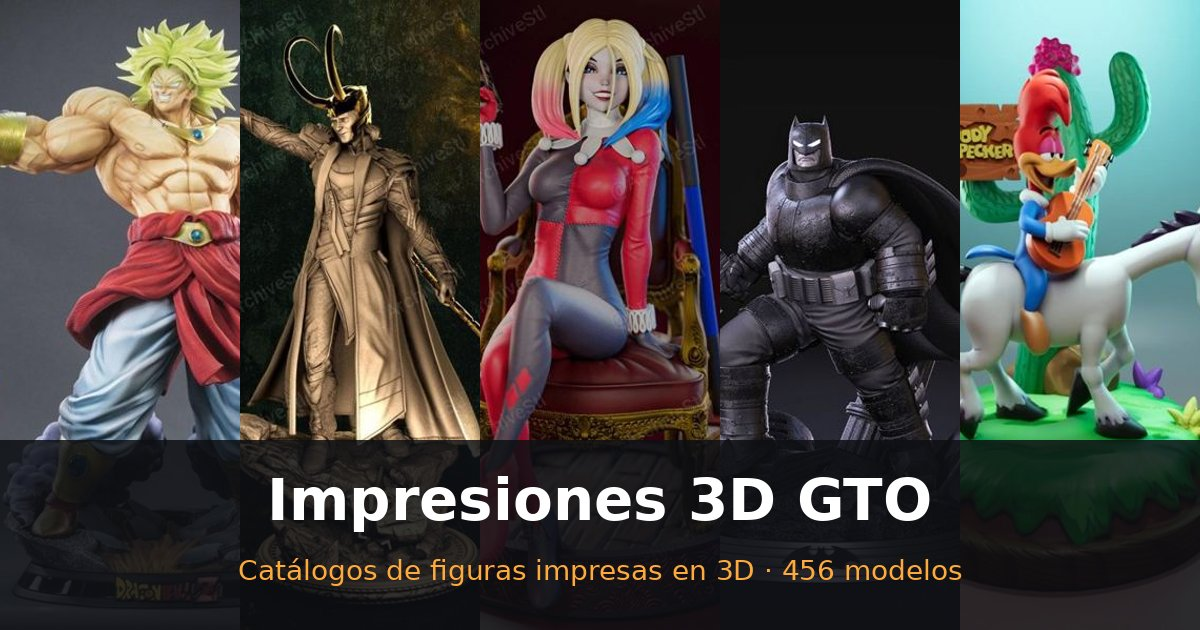
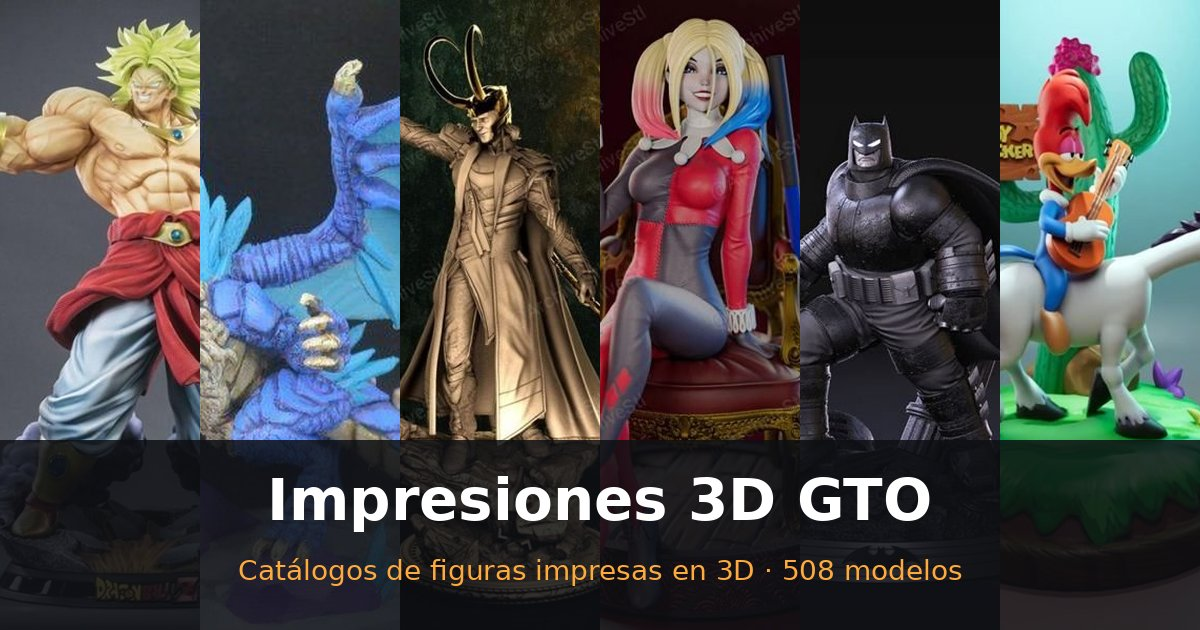
Agregar catálogo de Dragones (52 modelos, DRG-001 a DRG-052)
- Nuevo catálogo en sitio/dragones/
- Tarjeta en la página de inicio (cuadrícula de 3 columnas)
- Botón Dragones en los otros 5 catálogos
- Vista previa og.jpg con 6 catálogos y 508 modelos
- Códigos DRG en codigos.tsv

Claude-Session: https://claude.ai/code/session_01XGCEiJfgnkEhnVqTLsYhtQ

diff --git a/sitio/dragones/index.html b/sitio/dragones/index.html
@@ -1,0 +1,97 @@
+<!DOCTYPE html>
+<html lang="es">
+<head>
+<meta charset="utf-8">
+<meta name="viewport" content="width=device-width, initial-scale=1">
+<title>Catálogo Dragones · Impresiones 3D GTO</title>
+<meta property="og:title" content="Dragones · Impresiones 3D GTO">
+<meta property="og:description" content="Dragones impresos en 3D: figuras, chibis, articulados y decoración. Pide la tuya por WhatsApp.">
+<meta property="og:image" content="https://impresiones3dgto.figuras.workers.dev/img/dragones.jpg">
+<meta property="og:url" content="https://impresiones3dgto.figuras.workers.dev/dragones/">
+<link rel="preconnect" href="https://fonts.googleapis.com">
+<link href="https://fonts.googleapis.com/css2?family=Bebas+Neue&family=Inter:wght@400;500;600&display=swap" rel="stylesheet">
+<style>
+:root{--bg:#0d0f13;--panel:#161a21;--line:#262c36;--text:#e9ecf1;--muted:#8d96a5;--accent:#22c55e}
+*{box-sizing:border-box}
+body{margin:0;background:var(--bg);color:var(--text);font-family:Inter,system-ui,sans-serif}
+header{padding:40px 20px 24px;text-align:center;background:radial-gradient(ellipse at top,#1f2530 0%,var(--bg) 70%);border-bottom:1px solid var(--line)}
+.brand{font-size:13px;letter-spacing:.2em;text-transform:uppercase;color:var(--muted)}
+h1{font-family:'Bebas Neue',sans-serif;font-size:clamp(42px,8vw,76px);margin:6px 0 4px;letter-spacing:.04em;font-weight:400}
+h1 span{color:var(--accent)}
+.sub{color:var(--muted);font-size:15px;margin:0 auto;max-width:620px;line-height:1.5}
+.contact{display:inline-block;margin-top:16px;padding:9px 16px;border:1px solid var(--accent);color:var(--accent);border-radius:999px;font-weight:600;font-size:14px;text-decoration:none}
+.bar{position:sticky;top:0;z-index:5;background:rgba(13,15,19,.94);backdrop-filter:blur(8px);border-bottom:1px solid var(--line);padding:12px 16px}
+.bar-in{max-width:1200px;margin:0 auto;display:flex;flex-wrap:wrap;gap:8px;align-items:center}
+.chip{background:var(--panel);border:1px solid var(--line);color:var(--text);padding:7px 12px;border-radius:999px;font-size:13px;cursor:pointer;font-family:inherit}
+.chip.on{background:var(--accent);color:#111;border-color:var(--accent);font-weight:600}
+input{flex:1 1 180px;min-width:160px;background:var(--panel);border:1px solid var(--line);color:var(--text);padding:8px 12px;border-radius:8px;font-family:inherit;font-size:14px}
+main{max-width:1200px;margin:0 auto;padding:20px 16px 60px}
+h2{font-family:'Bebas Neue',sans-serif;font-weight:400;font-size:32px;letter-spacing:.04em;margin:32px 0 14px;border-left:4px solid var(--accent);padding-left:12px}
+h2 small{font-family:Inter;font-size:13px;color:var(--muted);letter-spacing:0;margin-left:8px}
+.grid{display:grid;grid-template-columns:repeat(auto-fill,minmax(200px,1fr));gap:14px}
+.card{background:var(--panel);border:1px solid var(--line);border-radius:10px;overflow:hidden;cursor:zoom-in;transition:transform .15s,border-color .15s}
+.card:hover{transform:translateY(-2px);border-color:#3a4250}
+.ph{aspect-ratio:1/1;background:#0a0b0e;display:flex;align-items:center;justify-content:center}
+.ph img{width:100%;height:100%;object-fit:contain}
+.meta{padding:10px 12px 12px}
+.code{font-size:11px;color:var(--accent);font-weight:600;letter-spacing:.06em}
+.name{font-size:14px;font-weight:500;margin-top:3px;line-height:1.3}
+.empty{color:var(--muted);text-align:center;padding:40px}
+footer{text-align:center;color:var(--muted);font-size:13px;padding:30px 16px 50px;border-top:1px solid var(--line);line-height:1.6}
+.lb{position:fixed;inset:0;background:rgba(0,0,0,.9);display:none;align-items:center;justify-content:center;flex-direction:column;z-index:20;padding:20px;cursor:zoom-out}
+.lb.on{display:flex}
+.lb img{max-width:100%;max-height:80vh;border-radius:8px}
+.lb p{margin:14px 0 0;font-size:16px}
+@media (max-width:600px){
+.grid{grid-template-columns:repeat(2,1fr);gap:10px}
+.bar-in{flex-wrap:nowrap;overflow-x:auto;scrollbar-width:none}
+.bar-in::-webkit-scrollbar{display:none}
+.chip{flex:0 0 auto}
+input{flex:0 0 170px}
+h2{font-size:26px}
+.name{font-size:13px}
+header{padding:28px 16px 20px}
+}
+.contact.alt{background:var(--accent);color:#111;margin-left:8px}
+@media (max-width:600px){.contact.alt{margin:10px 0 0;display:inline-block}}
+</style>
+</head>
+<body>
+<header>
+  <div class="brand">Impresiones 3D GTO</div>
+  <h1>Dragones <span>3D</span></h1>
+  <p class="sub">Dragones de fantasía, de películas y anime, chibis, articulados, lámparas y piezas de decoración que podemos imprimir en 3D. Toca una imagen para verla grande y pídenos el modelo por su código.</p>
+  <a class="contact alt" href="../">← Todos los catálogos</a> <a class="contact" href="https://wa.me/524731399799">WhatsApp 473 139 9799</a> <a class="contact alt" href="../dragonball/">Dragon Ball →</a> <a class="contact alt" href="../vintage/">Caricaturas Vintage →</a> <a class="contact alt" href="../marvel/">Catálogo Marvel →</a> <a class="contact alt" href="../dc/">Catálogo DC →</a> <a class="contact alt" href="../batman/">Catálogo Batman →</a>
+</header>
+<div class="bar"><div class="bar-in" id="chips"><input id="q" type="search" placeholder="Buscar (ej. Chimuelo, lámpara, hielo)..."></div></div>
+<main id="list"></main>
+<footer>52 modelos · Las imágenes son de referencia del diseño digital; el acabado final depende del material, tamaño y pintura que elijas.<br>Cotiza tu figura por WhatsApp: 473 139 9799</footer>
+<div class="lb" id="lb"><img id="lbi" alt=""><p id="lbt"></p></div>
+<script>
+const DATA=[{"n": "Dragón abisal", "c": "Dragones de fantasía", "code": "DRG-001", "img": "img/DRG-001.jpg"}, {"n": "Dragón abominación", "c": "Dragones de fantasía", "code": "DRG-002", "img": "img/DRG-002.jpg"}, {"n": "Dragón acuático", "c": "Dragones de fantasía", "code": "DRG-003", "img": "img/DRG-003.jpg"}, {"n": "Dragón astral", "c": "Dragones de fantasía", "code": "DRG-004", "img": "img/DRG-004.jpg"}, {"n": "Dragón azul alado", "c": "Dragones de fantasía", "code": "DRG-005", "img": "img/DRG-005.jpg"}, {"n": "Dragón cromático azul", "c": "Dragones de fantasía", "code": "DRG-006", "img": "img/DRG-006.jpg"}, {"n": "Dragón cromático blanco", "c": "Dragones de fantasía", "code": "DRG-007", "img": "img/DRG-007.jpg"}, {"n": "Dragón cromático negro", "c": "Dragones de fantasía", "code": "DRG-008", "img": "img/DRG-008.jpg"}, {"n": "Dragón cromático rojo", "c": "Dragones de fantasía", "code": "DRG-009", "img": "img/DRG-009.jpg"}, {"n": "Dragón cromático verde", "c": "Dragones de fantasía", "code": "DRG-010", "img": "img/DRG-010.jpg"}, {"n": "Dragón de acero", "c": "Dragones de fantasía", "code": "DRG-011", "img": "img/DRG-011.jpg"}, {"n": "Dragón de guerra", "c": "Dragones de fantasía", "code": "DRG-012", "img": "img/DRG-012.jpg"}, {"n": "Dragón de hielo Padre de la Escarcha", "c": "Dragones de fantasía", "code": "DRG-013", "img": "img/DRG-013.jpg"}, {"n": "Dragón de hielo gigante", "c": "Dragones de fantasía", "code": "DRG-014", "img": "img/DRG-014.jpg"}, {"n": "Dragón de la muerte", "c": "Dragones de fantasía", "code": "DRG-015", "img": "img/DRG-015.jpg"}, {"n": "Dragón dios", "c": "Dragones de fantasía", "code": "DRG-016", "img": "img/DRG-016.jpg"}, {"n": "Dragón mecánico", "c": "Dragones de fantasía", "code": "DRG-017", "img": "img/DRG-017.jpg"}, {"n": "Dragón nocturno", "c": "Dragones de fantasía", "code": "DRG-018", "img": "img/DRG-018.jpg"}, {"n": "Dragón primigenio", "c": "Dragones de fantasía", "code": "DRG-019", "img": "img/DRG-019.jpg"}, {"n": "Dragón sobrenatural", "c": "Dragones de fantasía", "code": "DRG-020", "img": "img/DRG-020.jpg"}, {"n": "Dragón tortuga", "c": "Dragones de fantasía", "code": "DRG-021", "img": "img/DRG-021.jpg"}, {"n": "Dragón ártico", "c": "Dragones de fantasía", "code": "DRG-022", "img": "img/DRG-022.jpg"}, {"n": "La chica y el dragón", "c": "Dragones de fantasía", "code": "DRG-023", "img": "img/DRG-023.jpg"}, {"n": "Pilar de dragón", "c": "Dragones de fantasía", "code": "DRG-024", "img": "img/DRG-024.jpg"}, {"n": "Batman Ninja vs dragón del Joker", "c": "Películas, series y anime", "code": "DRG-025", "img": "img/DRG-025.jpg"}, {"n": "Busto Reina de los Dragones", "c": "Películas, series y anime", "code": "DRG-026", "img": "img/DRG-026.jpg"}, {"n": "Calavera de dragón Krayt", "c": "Películas, series y anime", "code": "DRG-027", "img": "img/DRG-027.jpg"}, {"n": "Chimuelo", "c": "Películas, series y anime", "code": "DRG-028", "img": "img/DRG-028.jpg"}, {"n": "Dragón Blanco de Ojos Azules", "c": "Películas, series y anime", "code": "DRG-029", "img": "img/DRG-029.jpg"}, {"n": "Dragón Blanco de Ojos Azules chibi", "c": "Películas, series y anime", "code": "DRG-030", "img": "img/DRG-030.jpg"}, {"n": "Sisu y Raya, el último dragón", "c": "Películas, series y anime", "code": "DRG-031", "img": "img/DRG-031.jpg"}, {"n": "Chica dragón chibi", "c": "Chibi y tiernos", "code": "DRG-032", "img": "img/DRG-032.jpg"}, {"n": "Dragón Leung chibi", "c": "Chibi y tiernos", "code": "DRG-033", "img": "img/DRG-033.jpg"}, {"n": "Dragón de jengibre chibi", "c": "Chibi y tiernos", "code": "DRG-034", "img": "img/DRG-034.jpg"}, {"n": "Dragón no muerto chibi", "c": "Chibi y tiernos", "code": "DRG-035", "img": "img/DRG-035.jpg"}, {"n": "Dragón articulado épico", "c": "Articulados y llaveros", "code": "DRG-036", "img": "img/DRG-036.jpg"}, {"n": "Llavero dragón ajolote", "c": "Articulados y llaveros", "code": "DRG-037", "img": "img/DRG-037.jpg"}, {"n": "Llavero dragón tejido flexible", "c": "Articulados y llaveros", "code": "DRG-038", "img": "img/DRG-038.jpg"}, {"n": "Ajedrez de dragones", "c": "Decoración y hogar", "code": "DRG-039", "img": "img/DRG-039.jpg"}, {"n": "Aldaba de dragón para puerta", "c": "Decoración y hogar", "code": "DRG-040", "img": "img/DRG-040.jpg"}, {"n": "Anillo de dragón", "c": "Decoración y hogar", "code": "DRG-041", "img": "img/DRG-041.jpg"}, {"n": "Dragón guardián porta celular", "c": "Decoración y hogar", "code": "DRG-042", "img": "img/DRG-042.jpg"}, {"n": "Dragón origami", "c": "Decoración y hogar", "code": "DRG-043", "img": "img/DRG-043.jpg"}, {"n": "Lámpara de dragón", "c": "Decoración y hogar", "code": "DRG-044", "img": "img/DRG-044.jpg"}, {"n": "Lámpara de dragón de fuego", "c": "Decoración y hogar", "code": "DRG-045", "img": "img/DRG-045.jpg"}, {"n": "Lámpara litofanía con pilares de dragón", "c": "Decoración y hogar", "code": "DRG-046", "img": "img/DRG-046.jpg"}, {"n": "Porta botella dragón chino", "c": "Decoración y hogar", "code": "DRG-047", "img": "img/DRG-047.jpg"}, {"n": "Porta tarjetas de dragón", "c": "Decoración y hogar", "code": "DRG-048", "img": "img/DRG-048.jpg"}, {"n": "Sujetalibros caballero vs dragón", "c": "Decoración y hogar", "code": "DRG-049", "img": "img/DRG-049.jpg"}, {"n": "Cazadores de dragones (pack)", "c": "Packs para rol y miniaturas", "code": "DRG-050", "img": "img/DRG-050.jpg"}, {"n": "Pacto del Dragón (pack de miniaturas)", "c": "Packs para rol y miniaturas", "code": "DRG-051", "img": "img/DRG-051.jpg"}, {"n": "Tesoro del dragón verde (pack)", "c": "Packs para rol y miniaturas", "code": "DRG-052", "img": "img/DRG-052.jpg"}], CATS=["Dragones de fantasía", "Películas, series y anime", "Chibi y tiernos", "Articulados y llaveros", "Decoración y hogar", "Packs para rol y miniaturas"];
+let cat='Todos', q='';
+const chips=document.getElementById('chips'), qi=document.getElementById('q');
+['Todos',...CATS].forEach(c=>{const b=document.createElement('button');b.className='chip'+(c==='Todos'?' on':'');b.textContent=c;b.onclick=()=>{cat=c;[...chips.querySelectorAll('.chip')].forEach(x=>x.classList.toggle('on',x===b));render()};chips.insertBefore(b,qi)});
+qi.oninput=e=>{q=e.target.value.toLowerCase().normalize('NFD').replace(/[̀-ͯ]/g,'');render()};
+function norm(s){return s.toLowerCase().normalize('NFD').replace(/[̀-ͯ]/g,'')}
+function render(){
+  const L=document.getElementById('list');L.innerHTML='';let any=false;
+  CATS.forEach(c=>{
+    if(cat!=='Todos'&&cat!==c)return;
+    const its=DATA.filter(d=>d.c===c&&(!q||norm(d.n+' '+d.code+' '+d.c).includes(q)));
+    if(!its.length)return;any=true;
+    const h=document.createElement('h2');h.innerHTML=c+'<small>'+its.length+'</small>';L.appendChild(h);
+    const g=document.createElement('div');g.className='grid';
+    its.forEach(d=>{const el=document.createElement('div');el.className='card';
+      el.innerHTML='<div class="ph"><img loading="lazy" alt=""></div><div class="meta"><div class="code"></div><div class="name"></div></div>';
+      el.querySelector('img').src=d.img;el.querySelector('img').alt=d.n;el.querySelector('.code').textContent=d.code;el.querySelector('.name').textContent=d.n;
+      el.onclick=()=>{document.getElementById('lbi').src=d.img;document.getElementById('lbt').textContent=d.code+' · '+d.n;document.getElementById('lb').classList.add('on')};
+      g.appendChild(el)});
+    L.appendChild(g)});
+  if(!any)L.innerHTML='<p class="empty">No encontramos ese modelo. Escríbenos y lo buscamos.</p>';
+}
+document.getElementById('lb').onclick=()=>document.getElementById('lb').classList.remove('on');
+render();
+</script>
+</body>
+</html>

diff --git a/sitio/index.html b/sitio/index.html
@@ -4,11 +4,11 @@
 <meta charset="utf-8">
 <meta name="viewport" content="width=device-width, initial-scale=1">
 <title>Impresiones 3D GTO · Catálogos de figuras</title>
-<meta name="description" content="Figuras impresas en 3D de Dragon Ball, Marvel, DC, Batman y caricaturas clásicas. Elige tu modelo y cotiza por WhatsApp.">
+<meta name="description" content="Figuras impresas en 3D de Dragon Ball, dragones, Marvel, DC, Batman y caricaturas clásicas. Elige tu modelo y cotiza por WhatsApp.">
 <meta property="og:type" content="website">
 <meta property="og:url" content="https://impresiones3dgto.figuras.workers.dev/">
 <meta property="og:title" content="Impresiones 3D GTO · Catálogos de figuras">
-<meta property="og:description" content="Más de 450 figuras impresas en 3D: Dragon Ball, Marvel, DC, Batman y caricaturas clásicas. Cotiza por WhatsApp.">
+<meta property="og:description" content="Más de 500 figuras impresas en 3D: Dragon Ball, dragones, Marvel, DC, Batman y caricaturas clásicas. Cotiza por WhatsApp.">
 <meta property="og:image" content="https://impresiones3dgto.figuras.workers.dev/og.jpg">
 <meta property="og:image:width" content="1200">
 <meta property="og:image:height" content="630">
@@ -30,7 +30,8 @@ h1 span{color:var(--accent)}
 @media(max-width:640px){header{background-image:url(header-m.jpg);min-height:560px}}
 main{max-width:1100px;margin:0 auto;padding:28px 16px 40px}
 h2{font-family:'Bebas Neue',sans-serif;font-weight:400;font-size:30px;letter-spacing:.04em;margin:8px 0 16px;text-align:center;color:var(--muted)}
-.grid{display:grid;grid-template-columns:repeat(auto-fit,minmax(160px,1fr));gap:12px}
+.grid{display:grid;grid-template-columns:repeat(3,1fr);gap:14px;max-width:960px;margin:0 auto}
+@media(max-width:640px){.grid{grid-template-columns:repeat(2,1fr);gap:10px}}
 .cat{--c:#fff;position:relative;display:block;aspect-ratio:3/4;border-radius:14px;overflow:hidden;text-decoration:none;color:#fff;border:1px solid var(--line);background:#0a0b0e;transition:transform .2s,border-color .2s}
 .cat img{width:100%;height:100%;object-fit:cover;transition:transform .4s}
 .cat:hover{transform:translateY(-3px);border-color:var(--c)}
@@ -64,6 +65,7 @@ footer a{color:var(--accent)}
   <h2>Elige un catálogo</h2>
   <div class="grid">
     <a class="cat" style="--c:#ff7a00" href="dragonball/"><span class="go">Ver →</span><img src="img/dragonball.jpg" alt="Dragon Ball"><div class="info"><b>Dragon Ball</b><small>118 modelos · Goku, Vegeta, Freezer, Broly</small></div></a>
+    <a class="cat" style="--c:#22c55e" href="dragones/"><span class="go">Ver →</span><img src="img/dragones.jpg" alt="Dragones"><div class="info"><b>Dragones</b><small>52 modelos · fantasía, Chimuelo, lámparas, chibis</small></div></a>
     <a class="cat" style="--c:#e62429" href="marvel/"><span class="go">Ver →</span><img src="img/marvel.jpg" alt="Marvel"><div class="info"><b>Marvel</b><small>74 modelos · Spider-Man, Hulk, Loki, X-Men</small></div></a>
     <a class="cat" style="--c:#3d8bff" href="dc/"><span class="go">Ver →</span><img src="img/dc.jpg" alt="DC Comics"><div class="info"><b>DC Comics</b><small>84 modelos · Supergirl, Harley Quinn, Liga de la Justicia</small></div></a>
     <a class="cat" style="--c:#f5c518" href="batman/"><span class="go">Ver →</span><img src="img/batman.jpg" alt="Batman"><div class="info"><b>Batman</b><small>103 modelos · Batman, Joker, villanos de Gotham</small></div></a>

diff --git a/sitio/vintage/index.html b/sitio/vintage/index.html
@@ -61,7 +61,7 @@ header{padding:28px 16px 20px}
   <div class="brand">Impresiones 3D GTO</div>
   <h1>Caricaturas <span>Vintage</span></h1>
   <p class="sub">Las caricaturas de siempre: Looney Tunes, Hanna-Barbera, He-Man, Thundercats, Tortugas Ninja, Transformers y los clásicos de los 90 que podemos imprimir en 3D. Toca una imagen para verla grande y pídenos el modelo por su código.</p>
-  <a class="contact alt" href="../">← Todos los catálogos</a> <a class="contact" href="https://wa.me/524731399799">WhatsApp 473 139 9799</a> <a class="contact alt" href="../dragonball/">Dragon Ball →</a> <a class="contact alt" href="../marvel/">Catálogo Marvel →</a> <a class="contact alt" href="../dc/">Catálogo DC →</a> <a class="contact alt" href="../batman/">Catálogo Batman →</a>
+  <a class="contact alt" href="../">← Todos los catálogos</a> <a class="contact" href="https://wa.me/524731399799">WhatsApp 473 139 9799</a> <a class="contact alt" href="../dragones/">Dragones →</a> <a class="contact alt" href="../dragonball/">Dragon Ball →</a> <a class="contact alt" href="../marvel/">Catálogo Marvel →</a> <a class="contact alt" href="../dc/">Catálogo DC →</a> <a class="contact alt" href="../batman/">Catálogo Batman →</a>
 </header>
 <div class="bar"><div class="bar-in" id="chips"><input id="q" type="search" placeholder="Buscar (ej. Popeye, He-Man, Scooby)..."></div></div>
 <main id="list"></main>

diff --git a/sitio/dc/index.html b/sitio/dc/index.html
@@ -61,7 +61,7 @@ header{padding:28px 16px 20px}
   <div class="brand">Impresiones 3D GTO</div>
   <h1>Catálogo <span>DC Comics</span></h1>
   <p class="sub">Superman, Mujer Maravilla, Flash, Linterna Verde, villanos, heroínas y dioramas del universo DC que podemos imprimir en 3D. Toca una imagen para verla grande y pídenos el modelo por su código.</p>
-  <a class="contact alt" href="../">← Todos los catálogos</a> <a class="contact" href="https://wa.me/524731399799">WhatsApp 473 139 9799</a> <a class="contact alt" href="../dragonball/">Dragon Ball →</a> <a class="contact alt" href="../batman/">Catálogo Batman →</a> <a class="contact alt" href="../marvel/">Catálogo Marvel →</a> <a class="contact alt" href="../vintage/">Caricaturas Vintage →</a>
+  <a class="contact alt" href="../">← Todos los catálogos</a> <a class="contact" href="https://wa.me/524731399799">WhatsApp 473 139 9799</a> <a class="contact alt" href="../dragones/">Dragones →</a> <a class="contact alt" href="../dragonball/">Dragon Ball →</a> <a class="contact alt" href="../batman/">Catálogo Batman →</a> <a class="contact alt" href="../marvel/">Catálogo Marvel →</a> <a class="contact alt" href="../vintage/">Caricaturas Vintage →</a>
 </header>
 <div class="bar"><div class="bar-in" id="chips"><input id="q" type="search" placeholder="Buscar (ej. Superman, Harley, busto)…"></div></div>
 <main id="list"></main>

diff --git a/sitio/dragonball/index.html b/sitio/dragonball/index.html
@@ -61,7 +61,7 @@ header{padding:28px 16px 20px}
   <div class="brand">Impresiones 3D GTO</div>
   <h1>Dragon <span>Ball</span></h1>
   <p class="sub">Goku, Vegeta, Freezer, Cell, Broly y toda la saga de Dragon Ball, Z, GT y Super en figuras, bustos, dioramas y chibis que podemos imprimir en 3D. Toca una imagen para verla grande y pídenos el modelo por su código.</p>
-  <a class="contact alt" href="../">← Todos los catálogos</a> <a class="contact" href="https://wa.me/524731399799">WhatsApp 473 139 9799</a> <a class="contact alt" href="../vintage/">Caricaturas Vintage →</a> <a class="contact alt" href="../marvel/">Catálogo Marvel →</a> <a class="contact alt" href="../dc/">Catálogo DC →</a> <a class="contact alt" href="../batman/">Catálogo Batman →</a>
+  <a class="contact alt" href="../">← Todos los catálogos</a> <a class="contact" href="https://wa.me/524731399799">WhatsApp 473 139 9799</a> <a class="contact alt" href="../dragones/">Dragones →</a> <a class="contact alt" href="../vintage/">Caricaturas Vintage →</a> <a class="contact alt" href="../marvel/">Catálogo Marvel →</a> <a class="contact alt" href="../dc/">Catálogo DC →</a> <a class="contact alt" href="../batman/">Catálogo Batman →</a>
 </header>
 <div class="bar"><div class="bar-in" id="chips"><input id="q" type="search" placeholder="Buscar (ej. Goku, Vegeta, Freezer)..."></div></div>
 <main id="list"></main>

diff --git a/sitio/marvel/index.html b/sitio/marvel/index.html
@@ -61,7 +61,7 @@ header{padding:28px 16px 20px}
   <div class="brand">Impresiones 3D GTO</div>
   <h1>Catálogo <span>Marvel</span></h1>
   <p class="sub">Spider-Man, Vengadores, X-Men, villanos y dioramas del universo Marvel que podemos imprimir en 3D. Toca una imagen para verla grande y pídenos el modelo por su código.</p>
-  <a class="contact alt" href="../">← Todos los catálogos</a> <a class="contact" href="https://wa.me/524731399799">WhatsApp 473 139 9799</a> <a class="contact alt" href="../dragonball/">Dragon Ball →</a> <a class="contact alt" href="../dc/">Catálogo DC →</a> <a class="contact alt" href="../batman/">Catálogo Batman →</a> <a class="contact alt" href="../vintage/">Caricaturas Vintage →</a>
+  <a class="contact alt" href="../">← Todos los catálogos</a> <a class="contact" href="https://wa.me/524731399799">WhatsApp 473 139 9799</a> <a class="contact alt" href="../dragones/">Dragones →</a> <a class="contact alt" href="../dragonball/">Dragon Ball →</a> <a class="contact alt" href="../dc/">Catálogo DC →</a> <a class="contact alt" href="../batman/">Catálogo Batman →</a> <a class="contact alt" href="../vintage/">Caricaturas Vintage →</a>
 </header>
 <div class="bar"><div class="bar-in" id="chips"><input id="q" type="search" placeholder="Buscar (ej. Spider-Man, Wolverine, Hulk)…"></div></div>
 <main id="list"></main>

diff --git a/sitio/batman/index.html b/sitio/batman/index.html
@@ -63,7 +63,7 @@ header{padding:28px 16px 20px}
   <div class="brand">Impresiones 3D GTO</div>
   <h1>Catálogo <span>Batman</span></h1>
   <p class="sub">Figuras, bustos, villanos, aliados y dioramas del universo de Batman que podemos imprimir en 3D. Toca una imagen para verla grande y pídenos el modelo por su código.</p>
-  <a class="contact alt" href="../">← Todos los catálogos</a> <a class="contact" href="https://wa.me/524731399799">WhatsApp 473 139 9799</a> <a class="contact alt" href="../dragonball/">Dragon Ball →</a> <a class="contact alt" href="../marvel/">Catálogo Marvel →</a> <a class="contact alt" href="../dc/">Catálogo DC →</a> <a class="contact alt" href="../vintage/">Caricaturas Vintage →</a>
+  <a class="contact alt" href="../">← Todos los catálogos</a> <a class="contact" href="https://wa.me/524731399799">WhatsApp 473 139 9799</a> <a class="contact alt" href="../dragones/">Dragones →</a> <a class="contact alt" href="../dragonball/">Dragon Ball →</a> <a class="contact alt" href="../marvel/">Catálogo Marvel →</a> <a class="contact alt" href="../dc/">Catálogo DC →</a> <a class="contact alt" href="../vintage/">Caricaturas Vintage →</a>
 </header>
 <div class="bar"><div class="bar-in" id="chips"><input id="q" type="search" placeholder="Buscar (ej. Joker, busto, Keaton)…"></div></div>
 <main id="list"></main>
